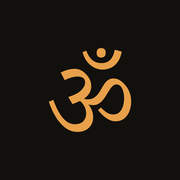
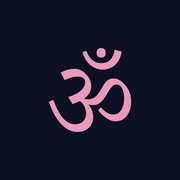
Rename to Shloka Scroll and use the midnight indigo theme

Changed region(s): [[0.25, 0.3611, 0.75, 0.75], [0.4444, 0.25, 0.6944, 0.3889]]

diff --git a/terms.html b/terms.html
@@ -3,11 +3,11 @@
 <head>
 <meta charset="utf-8">
 <meta name="viewport" content="width=device-width, initial-scale=1">
-<title>Shloka Terms of Service</title>
+<title>Shloka Scroll Terms of Service</title>
 <link rel="icon" type="image/png" sizes="32x32" href="favicon-32.png">
 <link rel="apple-touch-icon" href="apple-touch-icon.png">
 <style>
-  :root { --page: #12100D; --ink: #F1EADD; --soft: #C9BFAF; --faint: #958A7A; --accent: #E8A04A; --line: #2E2A24; }
+  :root { --page: #0E1024; --ink: #ECEAF6; --soft: #C4C1D9; --faint: #8F8CAD; --accent: #E89AB8; --line: #2A2D4A; }
   body { margin: 0; background: var(--page); color: var(--soft); font: 18px/1.6 Georgia, "Times New Roman", serif; }
   main { max-width: 680px; margin: 0 auto; padding: 48px 16px 64px; }
   h1 { color: var(--ink); font-weight: 400; font-size: 34px; margin: 0 0 4px; }
@@ -22,16 +22,16 @@
 </head>
 <body>
 <main>
-<a class="home" href="./"><img src="logo.png" alt="Shloka home"></a>
-<h1>Shloka Terms of Service</h1>
+<a class="home" href="./"><img src="logo.png" alt="Shloka Scroll home"></a>
+<h1>Shloka Scroll Terms of Service</h1>
 <p class="date">Effective 15 November 2026</p>
 
-<p>These terms apply when you use Shloka, an app for reading the Bhagavad Gita. By using the app, you agree to them. If you do not agree, please do not use the app.</p>
+<p>These terms apply when you use Shloka Scroll, an app for reading the Bhagavad Gita. By using the app, you agree to them. If you do not agree, please do not use the app.</p>
 
 <h2>The app</h2>
-<p>Shloka is free to read. Every verse of the Bhagavad Gita is available without paying. The free version shows ads. You may use the app for your own personal, non-commercial reading.</p>
+<p>Shloka Scroll is free to read. Every verse of the Bhagavad Gita is available without paying. The free version shows ads. You may use the app for your own personal, non-commercial reading.</p>
 
-<h2>Shloka Premium</h2>
+<h2>Shloka Scroll Premium</h2>
 <ul>
   <li>Premium removes ads and adds Listen mode. It is sold through Google Play as a yearly or monthly subscription, or as a one-time lifetime purchase. Prices are shown in the app before you buy.</li>
   <li>Subscriptions renew automatically at the end of each period until you cancel. You can cancel at any time in Google Play, under Payments and subscriptions. Cancelling stops the next renewal; Premium stays active until the end of the period you have paid for.</li>
@@ -44,8 +44,8 @@
 <p>The free version shows ads from Google AdMob. You may choose to watch a short video to use the app without ads for 4 hours. Watching is always optional. How ad data is handled is explained in the <a href="privacy.html">privacy policy</a>.</p>
 
 <h2>About the text</h2>
-<p>The Sanskrit text of the Bhagavad Gita is in the public domain. The meanings in the app are plain-language versions written for Shloka and checked against public-domain translations. They are an aid to reading, not an authoritative religious interpretation. Some translations are marked as drafts while they are being reviewed. If you find an error, please tell us.</p>
-<p>The app's own design, meanings, code and images belong to the developer of Shloka. You may share verse images made with the app's share button for personal, non-commercial purposes.</p>
+<p>The Sanskrit text of the Bhagavad Gita is in the public domain. The meanings in the app are plain-language versions written for Shloka Scroll and checked against public-domain translations. They are an aid to reading, not an authoritative religious interpretation. Some translations are marked as drafts while they are being reviewed. If you find an error, please tell us.</p>
+<p>The app's own design, meanings, code and images belong to the developer of Shloka Scroll. You may share verse images made with the app's share button for personal, non-commercial purposes.</p>
 
 <h2>Fair use</h2>
 <p>Please do not copy, resell or redistribute the app or its translations, try to get around Premium or the ads, or interfere with how the app works.</p>

diff --git a/privacy.html b/privacy.html
@@ -3,11 +3,11 @@
 <head>
 <meta charset="utf-8">
 <meta name="viewport" content="width=device-width, initial-scale=1">
-<title>Shloka Privacy Policy</title>
+<title>Shloka Scroll Privacy Policy</title>
 <link rel="icon" type="image/png" sizes="32x32" href="favicon-32.png">
 <link rel="apple-touch-icon" href="apple-touch-icon.png">
 <style>
-  :root { --page: #12100D; --ink: #F1EADD; --soft: #C9BFAF; --faint: #958A7A; --accent: #E8A04A; --line: #2E2A24; }
+  :root { --page: #0E1024; --ink: #ECEAF6; --soft: #C4C1D9; --faint: #8F8CAD; --accent: #E89AB8; --line: #2A2D4A; }
   body { margin: 0; background: var(--page); color: var(--soft); font: 18px/1.6 Georgia, "Times New Roman", serif; }
   main { max-width: 680px; margin: 0 auto; padding: 48px 16px 64px; }
   h1 { color: var(--ink); font-weight: 400; font-size: 34px; margin: 0 0 4px; }
@@ -22,11 +22,11 @@
 </head>
 <body>
 <main>
-<a class="home" href="./"><img src="logo.png" alt="Shloka home"></a>
-<h1>Shloka Privacy Policy</h1>
+<a class="home" href="./"><img src="logo.png" alt="Shloka Scroll home"></a>
+<h1>Shloka Scroll Privacy Policy</h1>
 <p class="date">Effective 15 November 2026</p>
 
-<p>Shloka is an app for reading the Bhagavad Gita. This policy explains what information the app uses and why. In short: there is no account, your reading stays on your phone, and the only data that leaves your phone is what Google's advertising service collects to show ads.</p>
+<p>Shloka Scroll is an app for reading the Bhagavad Gita. This policy explains what information the app uses and why. In short: there is no account, your reading stays on your phone, and the only data that leaves your phone is what Google's advertising service collects to show ads.</p>
 
 <h2>What stays on your phone</h2>
 <p>The app saves these on your device only. We never receive them:</p>
@@ -49,7 +49,7 @@
 <p>This data is sent to Google, encrypted in transit, and handled under <a href="https://policies.google.com/privacy">Google's Privacy Policy</a>. See also <a href="https://policies.google.com/technologies/partner-sites">how Google uses information from apps that use its services</a>.</p>
 <p>We do not tell Google anything about your beliefs, what you read, or which verses you save, and ads are never targeted by religion.</p>
 <p>Where the law requires it, for example in the European Economic Area and the United Kingdom, the app asks for your consent before personalised ads are shown, and you can change your choice later under Menu, About, "Privacy choices for ads". On any Android phone you can reset or delete your advertising ID in your phone's settings, under Privacy, Ads.</p>
-<p>Shloka Premium removes all ads. With Premium, the app does not request ads.</p>
+<p>Shloka Scroll Premium removes all ads. With Premium, the app does not request ads.</p>
 
 <h2>Purchases</h2>
 <p>Premium is bought through Google Play. Google handles payment, and we never see your card or payment details. The app only checks with Google Play whether you own Premium. Google Play's handling of purchases is covered by <a href="https://policies.google.com/privacy">Google's Privacy Policy</a>.</p>
@@ -63,7 +63,7 @@
 </ul>
 
 <h2>Children</h2>
-<p>Shloka is not directed at children under 13, and we do not knowingly collect information from them.</p>
+<p>Shloka Scroll is not directed at children under 13, and we do not knowingly collect information from them.</p>
 
 <h2>Changes</h2>
 <p>If this policy changes, the new version will be posted on this page with a new effective date.</p>

diff --git a/index.html b/index.html
@@ -3,11 +3,11 @@
 <head>
 <meta charset="utf-8">
 <meta name="viewport" content="width=device-width, initial-scale=1">
-<title>Shloka</title>
+<title>Shloka Scroll</title>
 <link rel="icon" type="image/png" sizes="32x32" href="favicon-32.png">
 <link rel="apple-touch-icon" href="apple-touch-icon.png">
 <style>
-  :root { --page: #12100D; --ink: #F1EADD; --soft: #C9BFAF; --accent: #E8A04A; --line: #2E2A24; }
+  :root { --page: #0E1024; --ink: #ECEAF6; --soft: #C4C1D9; --accent: #E89AB8; --line: #2A2D4A; }
   body { margin: 0; background: var(--page); color: var(--soft); font: 18px/1.6 Georgia, "Times New Roman", serif; }
   main { max-width: 680px; margin: 0 auto; padding: 96px 16px 64px; }
   .logo { display: block; width: 88px; height: 88px; border-radius: 20px; margin: 0 0 28px; box-shadow: 0 0 0 1px var(--line); }
@@ -19,8 +19,8 @@
 </head>
 <body>
 <main>
-<img class="logo" src="logo.png" alt="Shloka logo">
-<h1>Shloka</h1>
+<img class="logo" src="logo.png" alt="Shloka Scroll logo">
+<h1>Shloka Scroll</h1>
 <p>The Bhagavad Gita, one verse at a time. All 700 verses in the language you choose: the Sanskrit in your own script, with a plain-language meaning below. Swipe up for the next.</p>
 <p>Coming soon to Google Play.</p>
 <nav>
